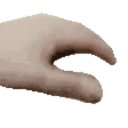
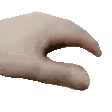
0.5.0

diff --git a/src/lib.rs b/src/lib.rs
@@ -16,7 +16,7 @@ use image::imageops::resize;
 use image::imageops::{overlay, FilterType};
 
 const FRAMES: u32 = 10;
-const RESOLUTION: (u32, u32) = (128, 128);
+const RESOLUTION: (u32, u32) = (112, 112);
 const HANDS: SyncLazy<Vec<RgbaImage>> = SyncLazy::new(|| {
     (0..5)
         .map(|num| format!("{}.png", num))
